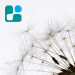
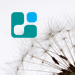
Text and image changes

Changed region(s): [[0.0533, 0.0533, 0.5067, 0.5067]]

diff --git a/app/assets/stylesheets/social/social_application.css.scss b/app/assets/stylesheets/social/social_application.css.scss
@@ -63,7 +63,7 @@ body#social {
 }
 
 #campaign {
-  background: transparent url("/assets/fb/dandelion-fb-p24.png") top left no-repeat;
+  background: #fff url("/assets/fb/dandelion-fb-p8.png") top left no-repeat;
   width: 810px;
   height: 700px;
   z-index: 0;
@@ -78,10 +78,10 @@ body#social {
     z-index: 10000;
     
     p {
-      margin-top: 100px;
+      margin-top: 110px;
       z-index: 10001;
       color: white;
-      font-size: 110px;
+      font-size: 96px;
       font-weight: bold;
       text-align: center;
     }
